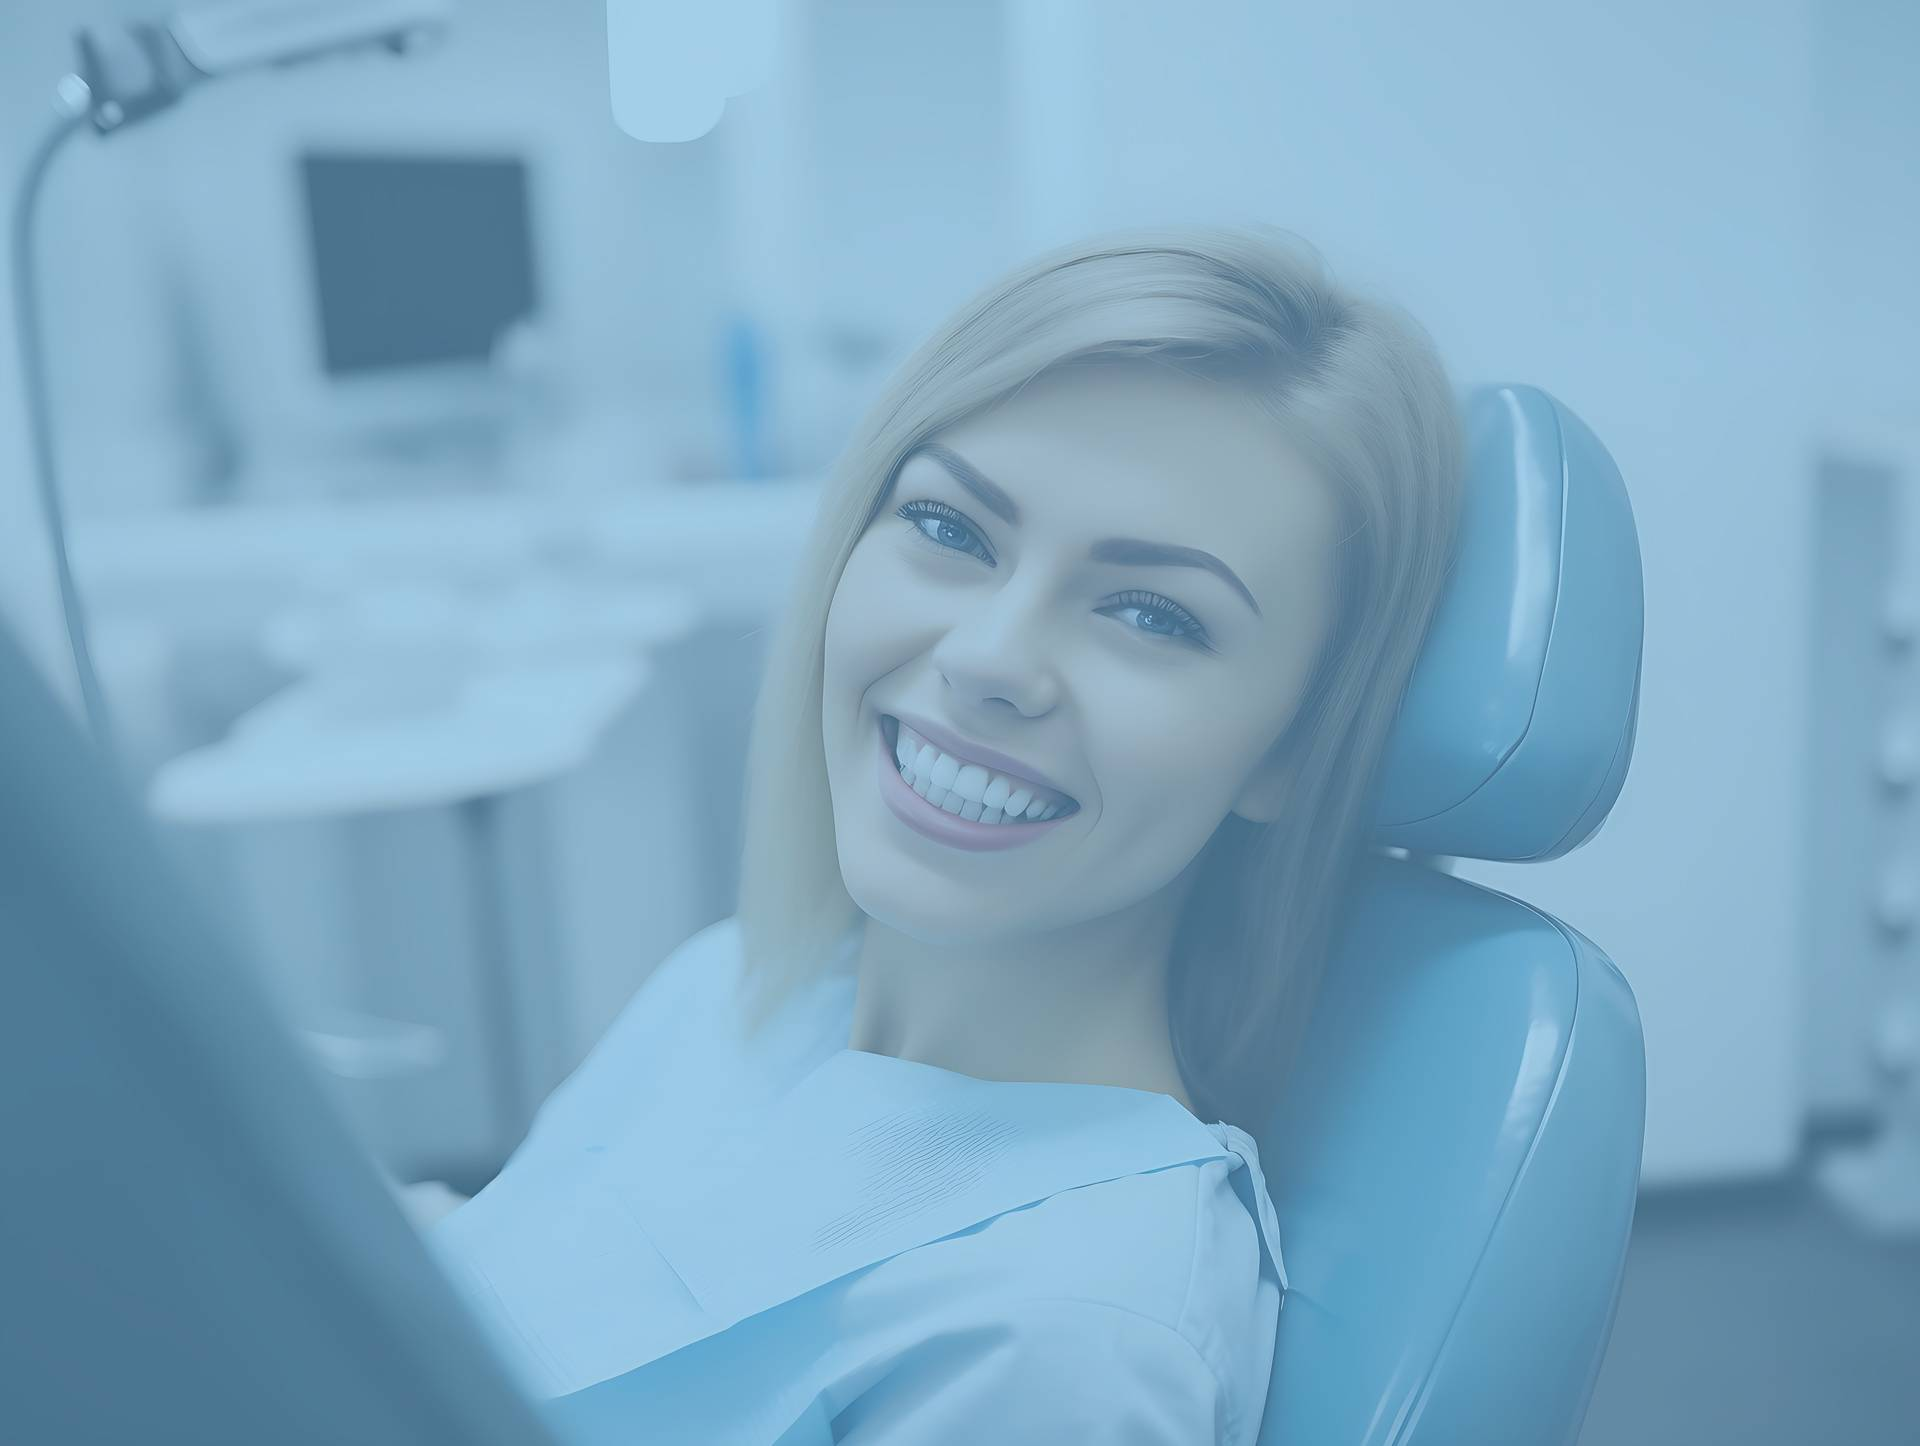
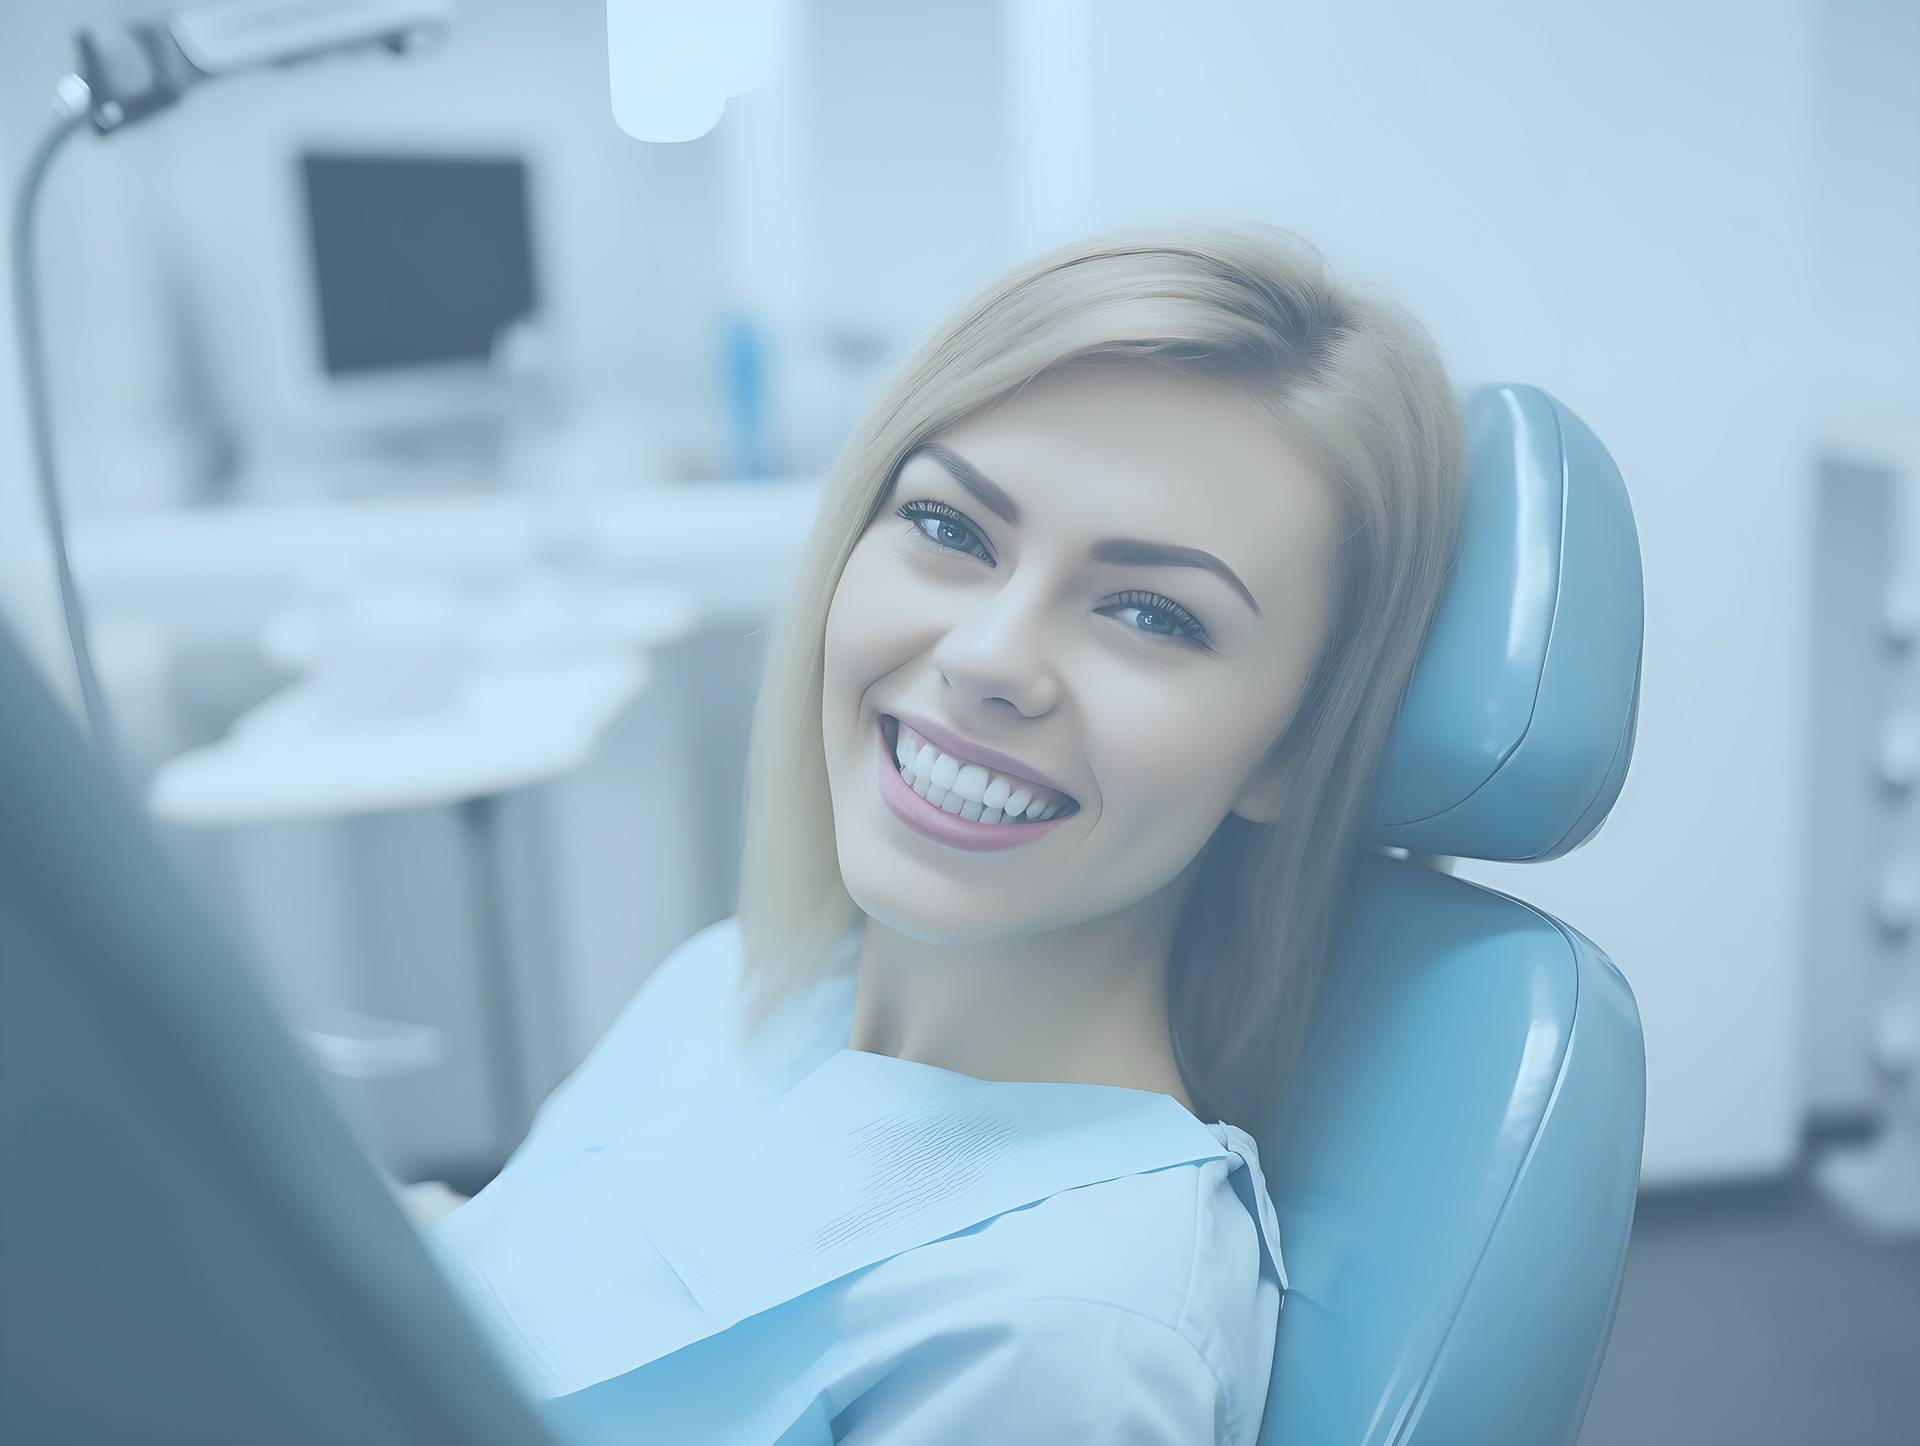
Formulario para agregar pacientes

diff --git a/src/components/Formulario.vue b/src/components/Formulario.vue
@@ -1,0 +1,73 @@
+<script setup></script>
+<template>
+  <div class="md:w-1/2 xl:px-10">
+    <h2 class="text-2xl mt-5 text-center mb-10">
+      Agrega Pacientes y
+      <span class="text-indigo-700 font-bold">Adminístralos</span>
+    </h2>
+
+    <form
+      class="bg-indigo-100 bg-opacity-60 shadow-md rounded-lg py-10 px-5 mb-10"
+    >
+      <div class="mb-5">
+        <label for="nombre" class="text-gray-800 uppercase font-bold"
+          >Nombre:</label
+        >
+        <input
+          id="nombre"
+          type="text"
+          class="border-2 w-full p-2 mt-2 placeholder-gray-400 rounded-md"
+          placeholder="Nombre del paciente"
+        />
+      </div>
+      <div class="mb-5">
+        <label for="email" class="text-gray-800 uppercase font-bold"
+          >Email:</label
+        >
+        <input
+          id="email"
+          type="email"
+          class="border-2 w-full p-2 mt-2 placeholder-gray-400 rounded-md"
+          placeholder="Email del paciente"
+        />
+      </div>
+      <div class="mb-5">
+        <label for="telefono" class="text-gray-800 uppercase font-bold"
+          >Teléfono:</label
+        >
+        <input
+          id="telefono"
+          type="number"
+          class="border-2 w-full p-2 mt-2 placeholder-gray-400 rounded-md"
+          placeholder="Teléfono del paciente"
+        />
+      </div>
+      <div class="mb-5">
+        <label for="alta" class="text-gray-800 uppercase font-bold"
+          >Alta:</label
+        >
+        <input
+          id="alta"
+          type="date"
+          class="border-2 w-full p-2 mt-2 placeholder-gray-400 rounded-md"
+        />
+      </div>
+      <div class="mb-5">
+        <label for="tratamiento" class="text-gray-800 uppercase font-bold"
+          >Tratamiento:</label
+        >
+        <textarea
+          id="tratamiento"
+          placeholder="Descríbe el tratamiento del paciente"
+          class="border-2 w-full p-2 mt-2 placeholder-gray-400 rounded-md h-40"
+        />
+      </div>
+
+      <input
+        type="submit"
+        class="bg-indigo-600 w-full p-3 text-white uppercase font-bold"
+        value="Registrar Paciente"
+      />
+    </form>
+  </div>
+</template>

diff --git a/src/components/Header.vue b/src/components/Header.vue
@@ -1,6 +1,6 @@
 <template>
-  <div class="p-5 md:p-10 bg-indigo-100 bg-opacity-60">
-    <h1 class="font-black text-4xl md:text-5xl text-center">
+  <div class="p-5 md:p-10 bg-indigo-100 bg-opacity-40">
+    <h1 class="font-black text-4xl text-center">
       Seguimiento de Pacientes
       <span class="text-indigo-700">CuidaTuSonrisa</span>
     </h1>

diff --git a/src/style.css b/src/style.css
@@ -3,7 +3,7 @@
 @tailwind utilities;
 
 body {
-  background-image: url("./../public/img/fondo4.jpg");
+  background-image: url("./../public/img/fondo.jpg");
   background-position: center center;
   background-size: cover; /* La imagen se ajustará al tamaño de la pantalla */
   background-attachment: fixed; /* La imagen de fondo permanecerá fija */

diff --git a/src/App.vue b/src/App.vue
@@ -1,8 +1,13 @@
 <script setup>
 import Header from "./components/Header.vue";
+import Formulario from "./components/Formulario.vue";
 </script>
 
 <template>
   <Header />
-  <div class="container mx-auto"></div>
+  <div class="container mx-auto px-5 xl:px-10">
+    <div class="mt-12 md:flex">
+      <formulario />
+    </div>
+  </div>
 </template>
